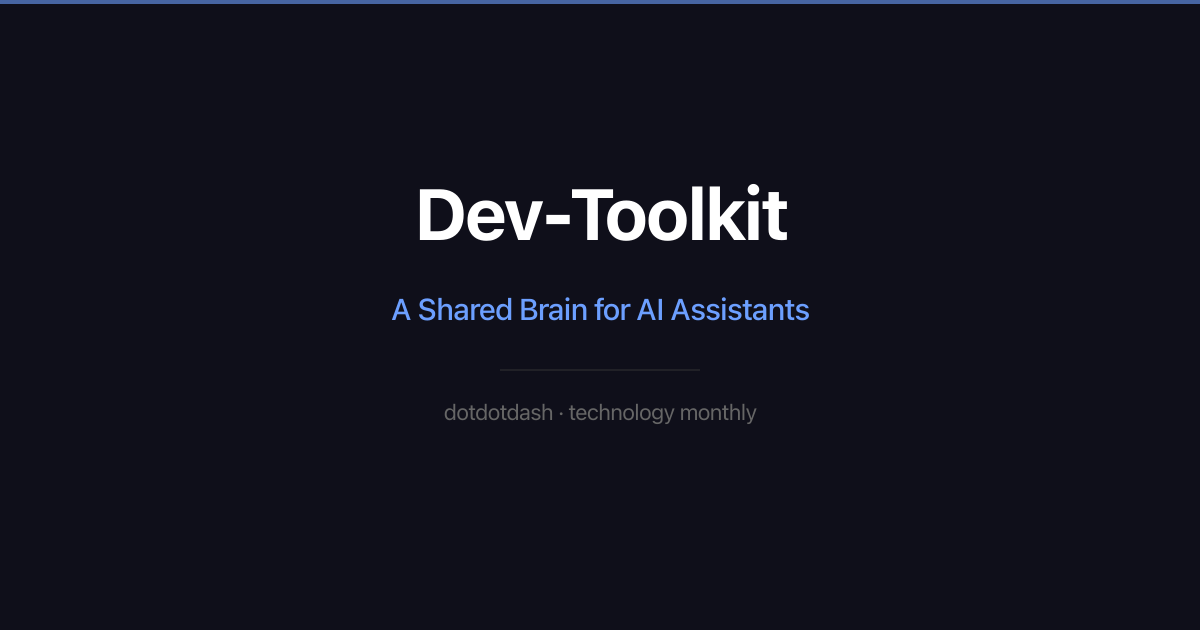
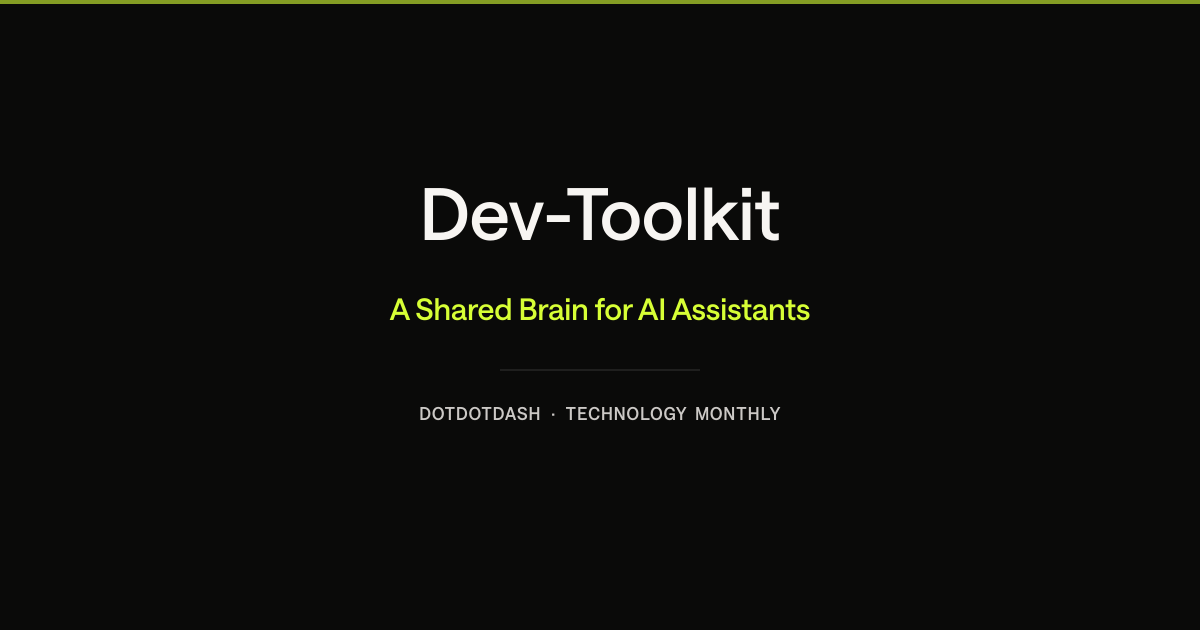
Apply dotdotdash brand tokens from Figma guidelines
Colors: DDD Black #0A0A09, DDD White #F7F5F2, DDD Grey #CCC9C6, DDD Yellow #D7FF35
Typography: Saans Medium (570), Saans SemiMono for labels
Border radius: 4px (brand standard)

diff --git a/index.html b/index.html
@@ -19,24 +19,24 @@
 
     <style>
         :root {
-            --r-background-color: #0f0f1a;
-            --r-main-font: system-ui, -apple-system, sans-serif;
-            --r-heading-font: system-ui, -apple-system, sans-serif;
-            --r-main-color: #e0e0e0;
-            --r-heading-color: #ffffff;
-            --r-link-color: #6c9fff;
+            --r-background-color: #0A0A09;
+            --r-main-font: 'Saans', system-ui, -apple-system, sans-serif;
+            --r-heading-font: 'Saans', system-ui, -apple-system, sans-serif;
+            --r-main-color: #F7F5F2;
+            --r-heading-color: #F7F5F2;
+            --r-link-color: #D7FF35;
         }
 
         .reveal { font-size: 32px; }
-        .reveal h1 { font-size: 2.2em; font-weight: 700; margin-bottom: 0.4em; }
-        .reveal h2 { font-size: 1.6em; font-weight: 600; margin-bottom: 0.6em; }
-        .reveal h3 { font-size: 1.1em; font-weight: 500; color: #6c9fff; }
-        .reveal p, .reveal li { font-size: 0.85em; line-height: 1.6; }
-        .reveal .subtitle { color: #888; font-size: 0.7em; margin-top: 0.5em; }
+        .reveal h1 { font-size: 2.2em; font-weight: 570; margin-bottom: 0.4em; letter-spacing: -0.03em; }
+        .reveal h2 { font-size: 1.6em; font-weight: 570; margin-bottom: 0.6em; letter-spacing: -0.03em; }
+        .reveal h3 { font-size: 1.1em; font-weight: 570; color: #D7FF35; }
+        .reveal p, .reveal li { font-size: 0.85em; line-height: 1.3; font-weight: 570; letter-spacing: -0.02em; }
+        .reveal .subtitle { color: #CCC9C6; font-family: 'Saans SemiMono', monospace; font-size: 0.7em; margin-top: 0.5em; text-transform: uppercase; letter-spacing: 0; }
 
-        .accent { color: #6c9fff; }
-        .dim { color: #666; }
-        .highlight { color: #ffd700; }
+        .accent { color: #D7FF35; }
+        .dim { color: #CCC9C6; }
+        .highlight { color: #F7F5F2; }
 
         .two-col {
             display: grid;
@@ -46,14 +46,14 @@
         }
 
         .concept-box {
-            background: rgba(255,255,255,0.05);
-            border-radius: 12px;
+            background: rgba(247,245,242,0.05);
+            border-radius: 4px;
             padding: 1.2em;
-            border-left: 3px solid #6c9fff;
+            border-left: 3px solid #D7FF35;
         }
 
         .concept-box.context-box {
-            border-left-color: #ffd700;
+            border-left-color: #F7F5F2;
         }
 
         .platform-grid {
@@ -65,10 +65,14 @@
         }
 
         .platform-item {
-            background: rgba(255,255,255,0.05);
-            border-radius: 8px;
+            background: rgba(247,245,242,0.05);
+            border-radius: 4px;
             padding: 0.8em 1.2em;
             font-size: 0.8em;
+            font-family: 'Saans SemiMono', monospace;
+            text-transform: uppercase;
+            font-size: 0.7em;
+            letter-spacing: 0;
         }
 
         .workflow-arrow {
@@ -85,15 +89,15 @@
         .honest-list li { margin-bottom: 0.8em; }
 
         .cta {
-            background: rgba(108, 159, 255, 0.1);
-            border: 1px solid rgba(108, 159, 255, 0.3);
-            border-radius: 12px;
+            background: rgba(215, 255, 53, 0.06);
+            border: 1px solid rgba(215, 255, 53, 0.25);
+            border-radius: 4px;
             padding: 1.5em 2em;
             display: inline-block;
             text-align: left;
         }
 
-        .reveal .slide-number { font-size: 14px; color: #444; }
+        .reveal .slide-number { font-size: 12px; color: #CCC9C6; font-family: 'Saans SemiMono', monospace; }
     </style>
 </head>
 <body>
